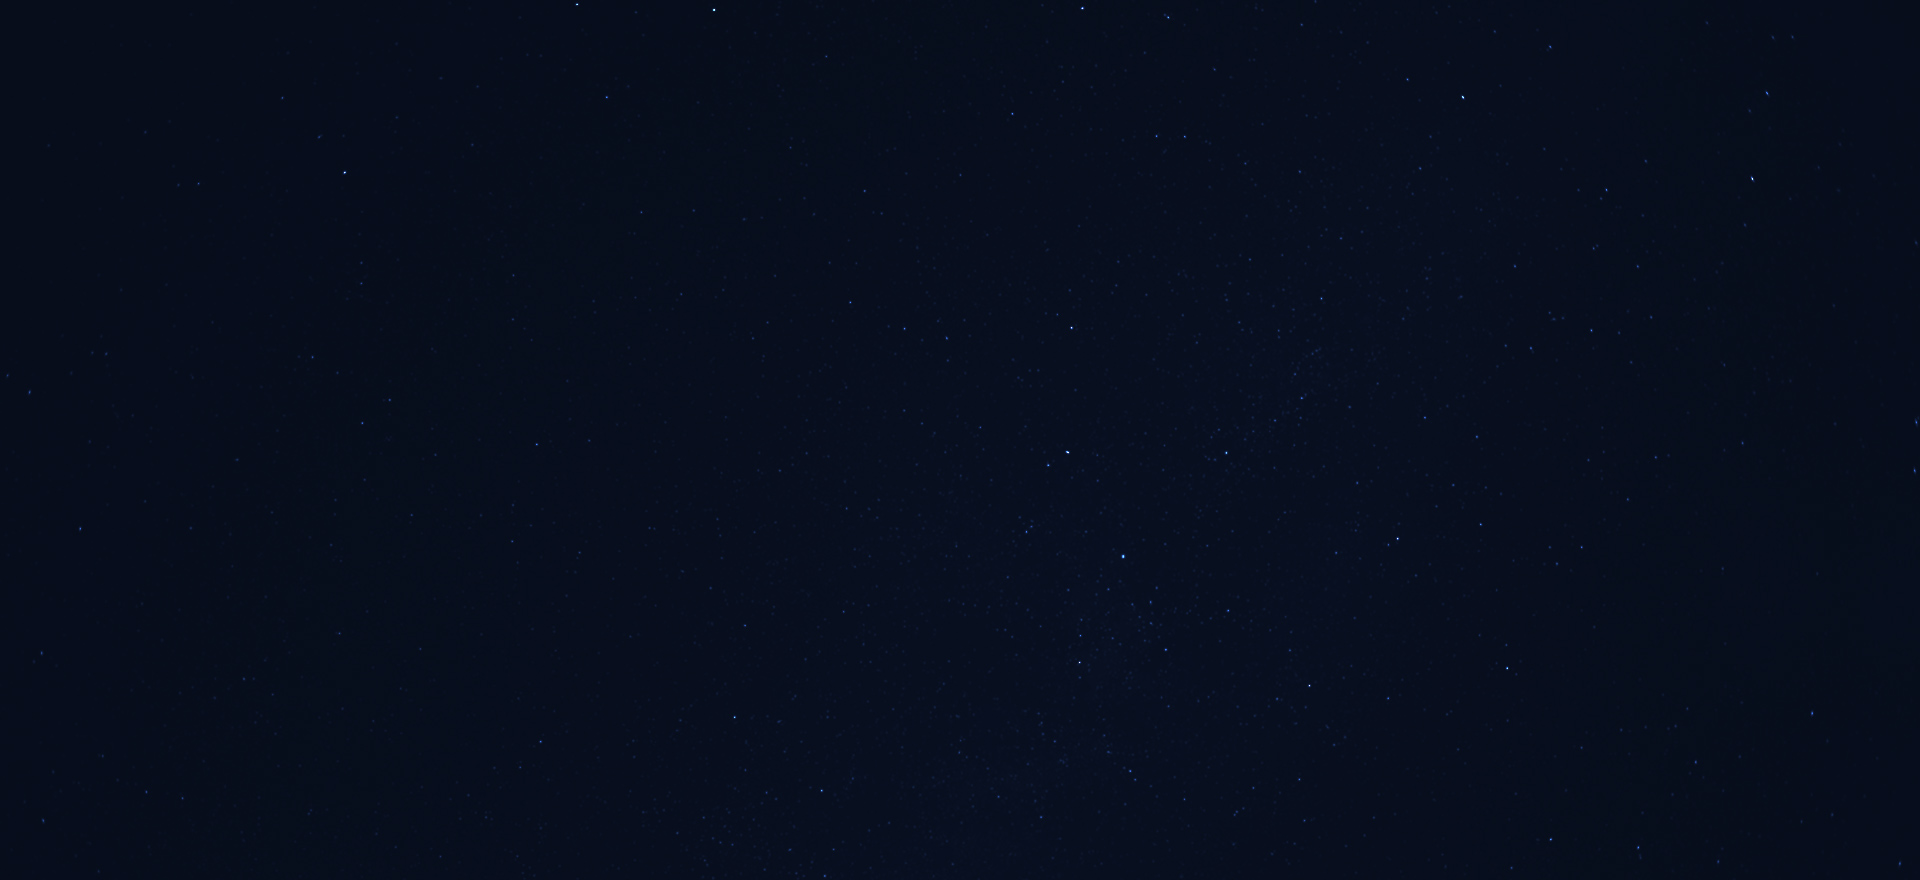
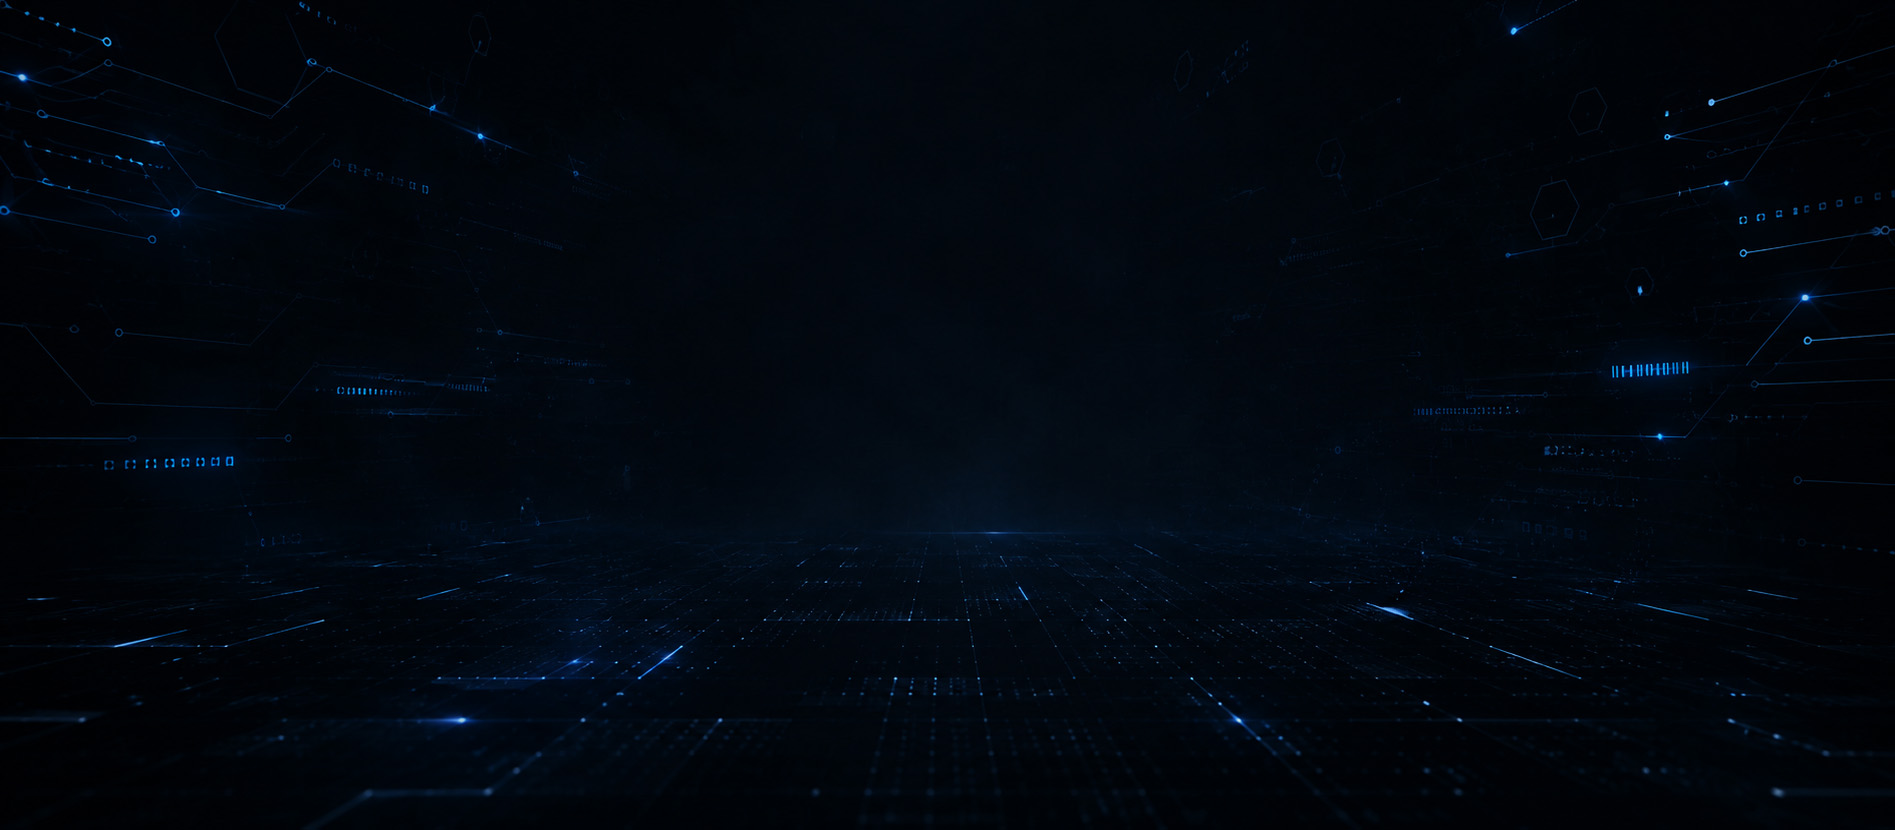
Fixed issues

diff --git a/index.html b/index.html
@@ -102,14 +102,14 @@
   <!-- End Header Section -->
 
 <!-- Start Hero Section -->
-<section class="st-hero st-style2 st-bg st-dynamic-bg st-ripple-version" data-src="assets/img/hero-bg-1.jpg">
+<section class="st-hero st-style2 st-bg st-dynamic-bg st-ripple-version" data-src="assets/img/background/hero-bg.jpg">
 
   <div class="container">
     <div class="st-hero-text text-center">
       <!-- Centered Logo Video -->
       <div class="st-author text-center">
         <video autoplay muted loop playsinline preload="auto"
-               poster="assets/img/Abhi-Logo-400.jpg"
+               poster="assets/img/Abhimanue_Udayan.jpg"
                class="st-author-video"
                style="object-fit: contain; max-width: 100%; height: auto;">
           <source src="assets/logo-Video.mp4" type="video/mp4">
@@ -173,7 +173,7 @@
  <h4 class="st-text-block-subtitle">Founder of <a href="https://hexagonknow.com" target="_blank" rel="noopener noreferrer" style="color: inherit; text-decoration: underline;">Hexagon Know</a></h4>
 <div class="st-text-block-text">
 
-<p>I am an avid reader and builder who develops systems at the intersection of computing, animation, and education to drive real-world impact. From an early age, science, nature, and machines became my core interests, while art, gaming, and travel evolved into my most cherished pursuits.</p>
+<p>I am an avid reader and builder who develops systems at the intersection of computing, animation, and education to drive real-world impact. From an early age, physics, nature, and machines became my core interests, while art, gaming, and travel evolved into my most cherished pursuits.</p>
 <p>My background spans computational physics, numerical computing, enterprise technical operations, and years of teaching physics and supporting the development of ed-tech solutions for 4 unicorn valued companies over a time of 6 years.</p>
 
 <p>I began my tech career at AT&T through a business process by Sutherland Global Services, diagnosing and resolving technical issues across the USA remotely from Kochi. Solving 20-42 issues per day for 11 months, at extraordinary speed and precision, helped me with my technical problem-solving skills, customer management & effective troubleshooting skills just using a computer and an internet connection.</p>

diff --git a/links.html b/links.html
@@ -297,7 +297,7 @@
     <div class="profile-section">
       <img src="assets/img/Abhimanue_Udayan.jpg" alt="Abhimanue Udayan" class="profile-image">
       <h1 class="profile-name">Abhimanue Udayan</h1>
-      <p class="profile-bio">I help founders build structured systems and content engines to launch and grow their startups</p>
+      <p class="profile-bio">Entrepreneur - Teacher - Computing Wizard</p>
     </div>
 
     <!-- Social Media Links -->